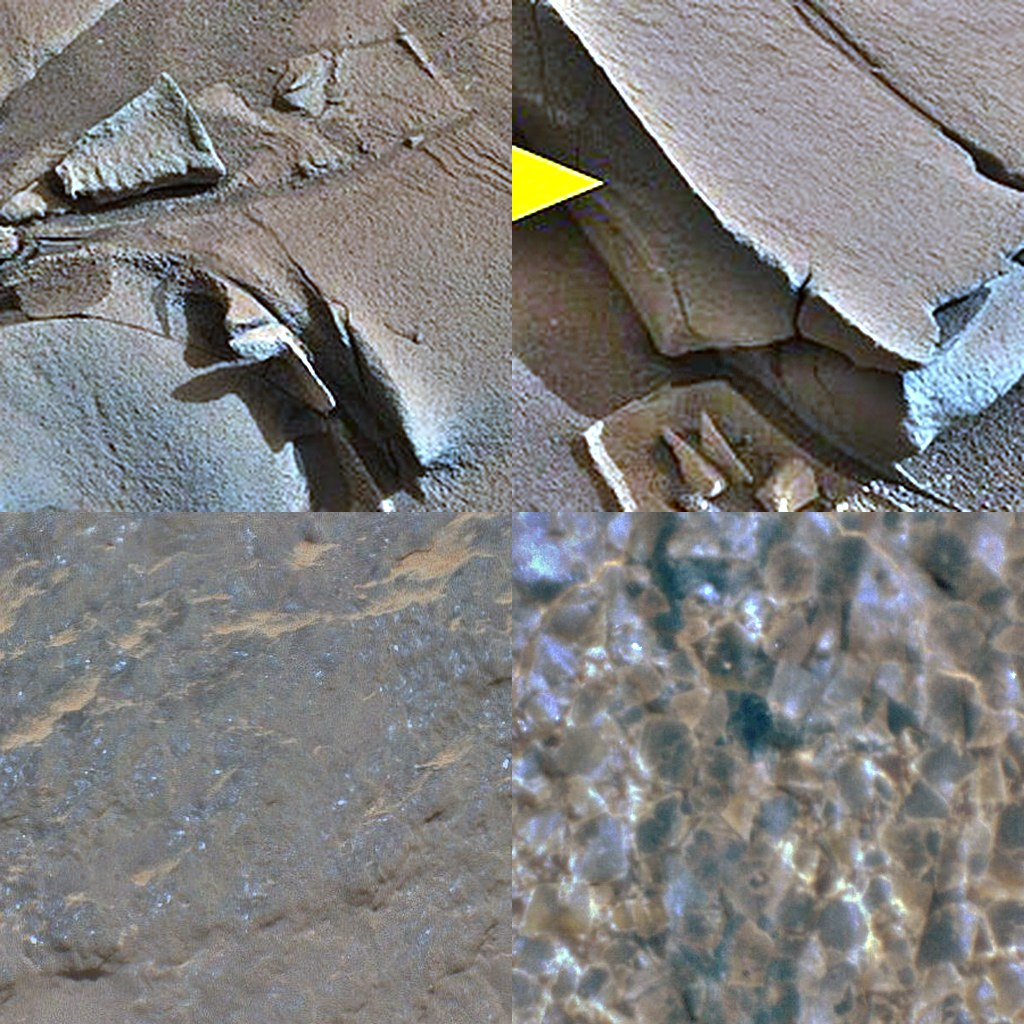
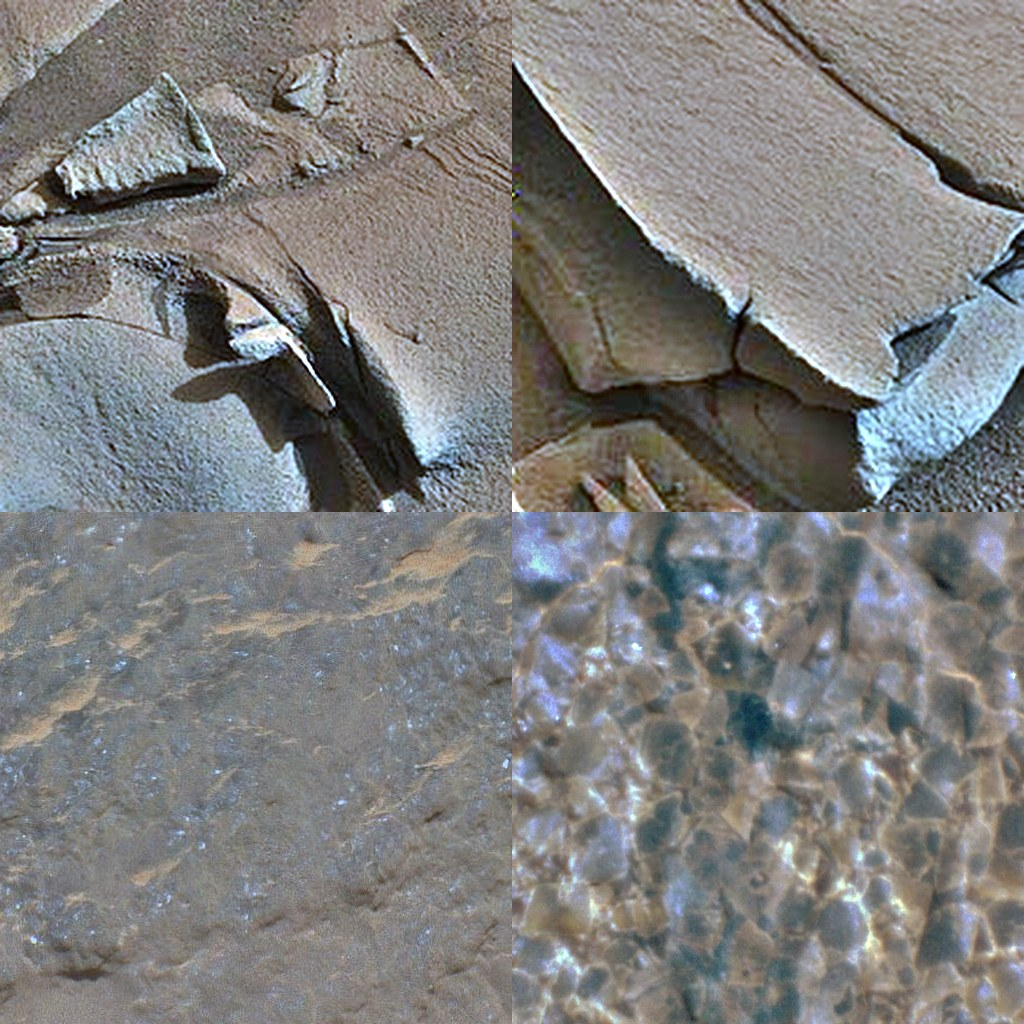
Mars: bedrock plates like the Perseverance photos, the Artuby ridge at Rochette
The Mars outcrops were 2-4 stacked convex plates 0.5-1.1 m tall with flat
facets - boxes - and every one of them had the same shape.

- plateGeometry: a low pillow-shaped slab, flat wavy top, wind-rounded rim,
  polygonal outline broken along joints, rim thickness varying; 4 variants.
- On flat ground an outcrop is a row of 2-5 plates along the strike, 0.25-0.6 m
  thick and half buried, sharing a dip, light dust-coated tops (PIA24840).
- The Artuby ridge at the Rochette site: a band of plates, Rochette itself as a
  ~1.5 m faceted block, and loose blocks shed from the ridge.
- Rock photo texture stretched with the rock's size on Mars (no 0.6 m tile grid
  on metre-wide plates); big rocks skip the coarse conglomerate tile.
- Rock atlas: tile 1 re-cropped past the yellow annotation arrow of PIA19066
  that showed on rocks.
- Moon unchanged: same slabs, boulder placement identical (checksum).

Changed region(s): [[0.5, 0.0, 1.0, 0.5]]

diff --git a/src/terrain/Rocks.ts b/src/terrain/Rocks.ts
@@ -17,6 +17,7 @@ const COLLIDER_SMALL = 0.1;
 const BOULDER_GRID = 8;
 const BOULDER_CELL = 64;
 const BOULDER_VARIANTS = 4;
+const OUTCROP_VARIANTS_MARS = 4;
 /** Boulder probability per BOULDER_GRID cell: base + steep slopes + rocky pavement (each weight ≤ 1). */
 const BOULDER_P0 = 0.004;
 const BOULDER_P_SLOPE = 0.12;
@@ -174,8 +175,52 @@ function slabGeometry(seed: number, tint: RockTint): THREE.BufferGeometry {
   return colorize(g, n, tint);
 }
 
-/** Vertex colours: mottled albedo; on Mars a coat of bright dust on upward faces. */
-function colorize(g: THREE.BufferGeometry, n: (x: number, y: number, z: number) => number, tint: RockTint): THREE.BufferGeometry {
+/**
+ * Mars bedrock plate (Máaz / Séítah outcrops, cf. the Rochette ridge, PIA24840): a low
+ * slab barely proud of the sand, its top flat and gently wavy, its rim rounded by wind
+ * abrasion, its outline an irregular polygon broken along a few joint planes. A pillow
+ * shape (superellipsoid-like: flat faces, rounded edges) with smooth normals - no boxes.
+ * Unit size: x, z within about ±1, y within ±0.5.
+ */
+function plateGeometry(seed: number, tint: RockTint): THREE.BufferGeometry {
+  let g: THREE.BufferGeometry = new THREE.IcosahedronGeometry(1, 4);
+  g.deleteAttribute('uv');
+  g.deleteAttribute('normal');
+  g = mergeVertices(g);
+  const p = g.getAttribute('position') as THREE.BufferAttribute;
+  const rnd = mulberry32(seed);
+  const n = noise3(seed);
+  // Joints: straight fracture edges of the outline (direction, distance from the centre).
+  const joints = Array.from({ length: 4 + Math.floor(rnd() * 3) }, () => ({ a: rnd() * Math.PI * 2, c: 0.5 + rnd() * 0.35 }));
+  const elong = 0.6 + rnd() * 0.35;
+  const v = new THREE.Vector3();
+  for (let i = 0; i < p.count; i++) {
+    v.fromBufferAttribute(p, i).normalize();
+    const rh = Math.hypot(v.x, v.z), az = Math.atan2(v.z, v.x);
+    // Outline radius: wavy, cut back by the joints (soft minimum: rounded corners).
+    let R = 1 + 0.16 * n(Math.cos(az) * 1.7 + 3, Math.sin(az) * 1.7, 0.5) + 0.05 * n(Math.cos(az) * 6, Math.sin(az) * 6, 2.5);
+    for (const j of joints) {
+      const c = Math.cos(az - j.a);
+      if (c > 0.05) {
+        const lim = j.c / c;
+        R = -Math.log(Math.exp(-R * 18) + Math.exp(-lim * 18)) / 18;
+      }
+    }
+    // Pillow profile: flat top and bottom, rim rounded over ~a third of the height.
+    const fr = Math.pow(rh, 0.16), fy = Math.sign(v.y) * Math.pow(Math.abs(v.y), 0.3);
+    const top = v.y > 0 ? 0.06 * fbm(n, v, 1.4, 2) + 0.02 * fbm(n, v, 7, 2) : 0;
+    const x = rh > 1e-6 ? (v.x / rh) * fr * R : 0, z = rh > 1e-6 ? (v.z / rh) * fr * R * elong : 0;
+    // Edge thickness varies around the rim (spalled flakes, thinner tongues).
+    const rim = 0.75 + 0.25 * n(Math.cos(az) * 3 + 9, Math.sin(az) * 3, 1.5);
+    p.setXYZ(i, x, fy * 0.5 * rim * (0.85 + 0.15 * R) + top, z);
+  }
+  g.computeVertexNormals();
+  // Light-toned tops: the plates hold a thicker, brighter dust coat than loose rocks.
+  return colorize(g, n, { base: tint.base, dust: tint.dust ? tint.dust.clone().multiplyScalar(1.7) : null }, 0.9);
+}
+
+/** Vertex colours: mottled albedo; on Mars a coat of bright dust on upward faces (up to dustMax). */
+function colorize(g: THREE.BufferGeometry, n: (x: number, y: number, z: number) => number, tint: RockTint, dustMax = 0.4): THREE.BufferGeometry {
   const p = g.getAttribute('position') as THREE.BufferAttribute;
   const nr = g.getAttribute('normal') as THREE.BufferAttribute;
   const col = new Float32Array(p.count * 3);
@@ -187,7 +232,7 @@ function colorize(g: THREE.BufferGeometry, n: (x: number, y: number, z: number) 
     if (tint.dust) {
       // Dust settles only on the flatter upper faces, patchily; sides stay dark basalt.
       const up = THREE.MathUtils.smoothstep(nr.getY(i), 0.55, 0.95) * (0.35 + 0.55 * (fbm(n, v, 3, 2) * 0.5 + 0.5));
-      c.lerp(tint.dust, THREE.MathUtils.clamp(up * 0.7, 0, 0.4));
+      c.lerp(tint.dust, THREE.MathUtils.clamp(up * (dustMax > 0.4 ? 1.1 : 0.7), 0, dustMax));
     }
     col.set([c.r, c.g, c.b], i * 3);
   }
@@ -205,7 +250,8 @@ export class Rocks {
   private meshes: THREE.InstancedMesh[] = [];
   private boulderNear: THREE.InstancedMesh[] = [];
   private boulderFar: THREE.InstancedMesh[] = [];
-  private outcropMesh: THREE.InstancedMesh;
+  /** Outcrop shapes: the Moon's bedded slab; on Mars several bedrock plates. */
+  private outcropMeshes: THREE.InstancedMesh[] = [];
   private boulders: Rock[] = [];
   private boulderGrid = new Map<string, number[]>();
   private cellKey = '';
@@ -235,7 +281,7 @@ export class Rocks {
       // vesicles as a bump map, mineral grains, darker pits, and (Moon) a fine dust
       // coat on the upper faces; (Mars) the ochre dust is handled by the vertex colour.
       shader.vertexShader = shader.vertexShader
-        .replace('#include <common>', '#include <common>\nvarying vec3 vRockP;\nvarying vec3 vRockN;\nvarying float vRockSeed;')
+        .replace('#include <common>', '#include <common>\nvarying vec3 vRockP;\nvarying vec3 vRockN;\nvarying float vRockSeed;\nvarying float vRockS;')
         .replace(
           '#include <begin_vertex>',
           `#include <begin_vertex>
@@ -249,7 +295,8 @@ vRockSeed = fract(sin(dot(iT.xz, vec2(12.9898, 78.233))) * 43758.5453);
 #else
 vRockN = normalize(mat3(modelMatrix) * objectNormal);
 #endif
-vRockP = position * rScale;`,
+vRockP = position * rScale;
+vRockS = rScale;`,
         );
       shader.fragmentShader = shader.fragmentShader
         .replace(
@@ -258,6 +305,7 @@ vRockP = position * rScale;`,
 varying vec3 vRockP;
 varying vec3 vRockN;
 varying float vRockSeed;
+varying float vRockS;
 #if ROCK_PHOTO > 0
 uniform sampler2D uRockPhoto;
 // Real rover photographs of Martian rock (2 × 2 atlas), projected triplanarly at
@@ -270,8 +318,19 @@ vec3 photoTap(vec2 p, vec2 tile) {
 vec3 rockPhoto(vec3 p, vec3 w) {
   float s = vRockSeed;
   vec2 tile = vec2(floor(s * 2.0), floor(fract(s * 7.13) * 2.0));
+#if ROCK_MARS > 0
+  // Tile (1, 0), the coarse "Cine" basalt, turns into a speckled carpet on a metre-wide
+  // plate: big rocks take the dusty, finely pitted Jezero rock (0, 0) instead.
+  if (vRockS > 1.2 && tile.x > 0.5 && tile.y < 0.5) tile.x = 0.0;
+#endif
   vec3 o = vec3(s * 17.0, s * 5.0, s * 11.0);
+#if ROCK_MARS > 0
+  // Mars bedrock plates are metres across: stretch the photo with the rock's size
+  // instead of repeating a 0.6 m tile into a visible grid.
+  p = p / (0.6 * clamp(vRockS * 0.7, 1.0, 3.0)) + o;
+#else
   p = p / 0.6 + o;
+#endif
   return photoTap(p.yz, tile) * w.x + photoTap(p.xz, tile) * w.y + photoTap(p.xy, tile) * w.z;
 }
 #endif
@@ -365,10 +424,12 @@ float rockH(vec3 p, vec3 w) {
       this.boulderFar.push(far);
     }
     // Outcrops: bedded slabs (stacked plates breaking along bedding planes).
-    this.outcropMesh = new THREE.InstancedMesh(slabGeometry(5, tint), mat, 800);
-    for (const m of [...this.boulderNear, ...this.boulderFar, this.outcropMesh]) this.prep(m);
+    if (mars) for (let v = 0; v < OUTCROP_VARIANTS_MARS; v++) this.outcropMeshes.push(new THREE.InstancedMesh(plateGeometry(41 + v * 17, tint), mat, 500));
+    else this.outcropMeshes.push(new THREE.InstancedMesh(slabGeometry(5, tint), mat, 800));
+    for (const m of [...this.boulderNear, ...this.boulderFar, ...this.outcropMeshes]) this.prep(m);
     for (const m of this.boulderFar) m.castShadow = false;
     this.placeBoulders();
+    if (this.mars && terrain.meta.sites?.rochette) this.placeArtuby(terrain.meta.sites.rochette.x, terrain.meta.sites.rochette.z);
   }
 
   private capacity(): number {
@@ -420,6 +481,11 @@ float rockH(vec3 p, vec3 w) {
         const rnd = mulberry32(Math.floor(hash2(i, j, 4242) * 4294967296));
         const px = x + (rnd() - 0.5) * BOULDER_GRID, pz = z + (rnd() - 0.5) * BOULDER_GRID;
         const outcrop = (slopeDeg > 24 && rnd() < 0.35) || (mat > 0.7 && rnd() < 0.45);
+        // Mars bedrock on flat ground: a row of low plates along the strike (Rochette ridge).
+        if (outcrop && this.mars && slopeDeg <= 24) {
+          this.placePlateRow(px, pz, rnd);
+          continue;
+        }
         // (Outcrop albedo: weathered, dust-coated rock, close to the soil around it.)
         let r: number, sx: number, sy: number, sz: number;
         const q = new THREE.Quaternion();
@@ -439,12 +505,78 @@ float rockH(vec3 p, vec3 w) {
         }
         // Partially buried; large blocks sink deeper into the regolith.
         const y = t.height(px, pz) - sy * (outcrop ? 0.45 : 0.3);
-        const idx = this.boulders.length;
-        this.boulders.push({ x: px, y, z: pz, r, sx, sy, sz, q, v: Math.floor(rnd() * BOULDER_VARIANTS), albedo: outcrop ? (this.mars ? 0.75 : 0.5) + rnd() * 0.2 : 0.85 + rnd() * 0.4, outcrop });
-        const key = `${Math.floor(px / BOULDER_CELL)},${Math.floor(pz / BOULDER_CELL)}`;
-        if (!this.boulderGrid.has(key)) this.boulderGrid.set(key, []);
-        this.boulderGrid.get(key)!.push(idx);
+        this.addBoulder({ x: px, y, z: pz, r, sx, sy, sz, q, v: Math.floor(rnd() * BOULDER_VARIANTS), albedo: outcrop ? (this.mars ? 0.75 : 0.5) + rnd() * 0.2 : 0.85 + rnd() * 0.4, outcrop });
       }
+    }
+  }
+
+  /**
+   * The Artuby ridge at Rochette (the first cores, Sol 190, PIA24840): a long band of
+   * light, dust-coated plates breaking out of the ground, with Rochette itself - a
+   * ~1.5 m lumpy block of altered basalt, its faces cleaner and greyer - lying beside
+   * it, and loose blocks shed from the ridge. Fixed seed: always the same scene.
+   */
+  private placeArtuby(cx: number, cz: number): void {
+    const t = this.terrain;
+    const rnd = mulberry32(190);
+    const strike = THREE.MathUtils.degToRad(25);
+    const dx = Math.cos(strike), dz = Math.sin(strike);
+    for (let k = -6; k <= 6; k++) {
+      const a = k * 4.5 + (rnd() - 0.5) * 2, side = (rnd() - 0.5) * 2.5 - 3;
+      this.placePlateRow(cx + dx * a - dz * side, cz + dz * a + dx * side, rnd, strike + (rnd() - 0.5) * 0.3);
+    }
+    const Y = new THREE.Vector3(0, 1, 0);
+    // v 2-3 on Mars are the faceted, freshly broken shapes (Rochette's look in PIA24840).
+    const block = (x: number, z: number, r: number, albedo: number, v = Math.floor(rnd() * 2)) => {
+      const sx = r * (1.3 + 0.3 * rnd()), sy = r * (0.6 + 0.15 * rnd()), sz = r * (0.75 + 0.2 * rnd());
+      const q = new THREE.Quaternion().setFromAxisAngle(Y, strike + (rnd() - 0.5) * 1.2).multiply(new THREE.Quaternion().setFromEuler(new THREE.Euler((rnd() - 0.5) * 0.3, 0, (rnd() - 0.5) * 0.3)));
+      this.addBoulder({ x, y: t.height(x, z) - sy * 0.3, z, r, sx, sy, sz, q, v, albedo, outcrop: false });
+    };
+    // Rochette, on the rover's side of the ridge.
+    block(cx + dz * 1.5, cz - dx * 1.5, 0.75, 2.6, 2);
+    for (let k = 0; k < 14; k++) {
+      const a = (rnd() - 0.5) * 50, side = -1 - rnd() * 9;
+      block(cx + dx * a - dz * side, cz + dz * a + dx * side, 0.15 + 0.4 * rnd() * rnd(), 0.9 + rnd() * 0.4);
+    }
+  }
+
+  private addBoulder(b: Rock): void {
+    const key = `${Math.floor(b.x / BOULDER_CELL)},${Math.floor(b.z / BOULDER_CELL)}`;
+    if (!this.boulderGrid.has(key)) this.boulderGrid.set(key, []);
+    this.boulderGrid.get(key)!.push(this.boulders.length);
+    this.boulders.push(b);
+  }
+
+  /**
+   * A broken-up bedrock exposure on Mars: 2-5 low plates (0.25-0.6 m thick, half
+   * buried) strung along the strike with sand between them, each following the
+   * ground's tilt, as along the Rochette ridge and across the Máaz pavement.
+   */
+  placePlateRow(x0: number, z0: number, rnd: () => number, strike = rnd() * Math.PI): void {
+    const t = this.terrain;
+    const dx = Math.cos(strike), dz = Math.sin(strike);
+    const count = 2 + Math.floor(rnd() * 4);
+    const r0 = 0.7 + rnd() * 1.3;
+    const albedo = 1.05 + rnd() * 0.25;
+    // The bedding dips: the plates of one row lean the same way (tilted ledges).
+    const dip = (rnd() - 0.5) * 0.35;
+    let along = -r0 * count * 0.5, prev = 0;
+    const up = new THREE.Vector3(), Y = new THREE.Vector3(0, 1, 0);
+    for (let k = 0; k < count; k++) {
+      const r = r0 * (0.55 + 0.6 * rnd());
+      along += (prev + r) * (0.75 + 0.35 * rnd());
+      prev = r;
+      const side = (rnd() - 0.5) * 0.6 * r0;
+      const x = x0 + dx * along - dz * side, z = z0 + dz * along + dx * side;
+      if (!t.inside(x, z)) continue;
+      t.normal(x, z, this.tmpN, 1.5);
+      up.set(this.tmpN[0], this.tmpN[1], this.tmpN[2]);
+      const q = new THREE.Quaternion()
+        .setFromUnitVectors(Y, up)
+        .multiply(new THREE.Quaternion().setFromAxisAngle(Y, -strike + (rnd() - 0.5) * 0.6))
+        .multiply(new THREE.Quaternion().setFromAxisAngle(new THREE.Vector3(1, 0, 0), dip + (rnd() - 0.5) * 0.15));
+      const sx = r * (0.9 + 0.3 * rnd()), sz = r * (0.75 + 0.3 * rnd()), sy = 0.25 + rnd() * 0.35;
+      this.addBoulder({ x, y: t.height(x, z) - sy * 0.45, z, r, sx, sy, sz, q, v: Math.floor(rnd() * OUTCROP_VARIANTS_MARS), albedo: albedo + (rnd() - 0.5) * 0.08, outcrop: true });
     }
   }
 
@@ -576,7 +708,7 @@ float rockH(vec3 p, vec3 w) {
     const rad = Math.ceil(range / BOULDER_CELL);
     const m4 = new THREE.Matrix4(), p = new THREE.Vector3(), s = new THREE.Vector3(), col = new THREE.Color();
     const nNear = new Array(BOULDER_VARIANTS).fill(0), nFar = new Array(BOULDER_VARIANTS).fill(0);
-    let nOut = 0;
+    const nOut = new Array(this.outcropMeshes.length).fill(0);
     const keepCol = new Set<number>();
     for (let dz = -rad; dz <= rad; dz++)
       for (let dx = -rad; dx <= rad; dx++) {
@@ -589,9 +721,10 @@ float rockH(vec3 p, vec3 w) {
           m4.compose(p.set(b.x, b.y, b.z), b.q, s.set(b.sx, b.sy, b.sz));
           col.setScalar(b.albedo);
           if (b.outcrop) {
-            if (nOut < this.outcropMesh.instanceMatrix.count) {
-              this.outcropMesh.setMatrixAt(nOut, m4);
-              this.outcropMesh.setColorAt(nOut++, col);
+            const o = b.v % this.outcropMeshes.length, om = this.outcropMeshes[o];
+            if (nOut[o] < om.instanceMatrix.count) {
+              om.setMatrixAt(nOut[o], m4);
+              om.setColorAt(nOut[o]++, col);
             }
           } else if (d < 160 && nNear[b.v] < this.boulderNear[b.v].instanceMatrix.count) {
             this.boulderNear[b.v].setMatrixAt(nNear[b.v], m4);
@@ -606,7 +739,7 @@ float rockH(vec3 p, vec3 w) {
           }
         }
       }
-    const all: [THREE.InstancedMesh, number][] = [[this.outcropMesh, nOut]];
+    const all: [THREE.InstancedMesh, number][] = this.outcropMeshes.map((m, o) => [m, nOut[o]]);
     for (let v = 0; v < BOULDER_VARIANTS; v++) all.push([this.boulderNear[v], nNear[v]], [this.boulderFar[v], nFar[v]]);
     for (const [m, n] of all) {
       m.count = n;
@@ -650,6 +783,6 @@ float rockH(vec3 p, vec3 w) {
 
   count(): number {
     const sum = (l: THREE.InstancedMesh[]) => l.reduce((a, m) => a + m.count, 0);
-    return sum(this.meshes) + sum(this.boulderNear) + sum(this.boulderFar) + this.outcropMesh.count;
+    return sum(this.meshes) + sum(this.boulderNear) + sum(this.boulderFar) + sum(this.outcropMeshes);
   }
 }

diff --git a/tools/prepare_rocktex.py b/tools/prepare_rocktex.py
@@ -26,7 +26,7 @@ ROOT = os.path.dirname(os.path.dirname(os.path.abspath(__file__)))
 R = os.path.join(ROOT, "raw_data", "marsrocks")
 CROPS = [
     ("PIA19066_MarsCuriosityRover_AlexanderHillsRock_20141123_Fig1.jpg", (430, 300, 650, 520)),
-    ("PIA19066_MarsCuriosityRover_AlexanderHillsRock_20141123_Fig1.jpg", (1610, 390, 1810, 590)),
+    ("PIA19066_MarsCuriosityRover_AlexanderHillsRock_20141123_Fig1.jpg", (1645, 395, 1820, 570)),  # between the annotation arrow (x < 1643) and the black frame
     ("PIA24492.jpg", (330, 260, 780, 710)),
     ("PIA24936.jpg", (800, 900, 1400, 1500)),
 ]
